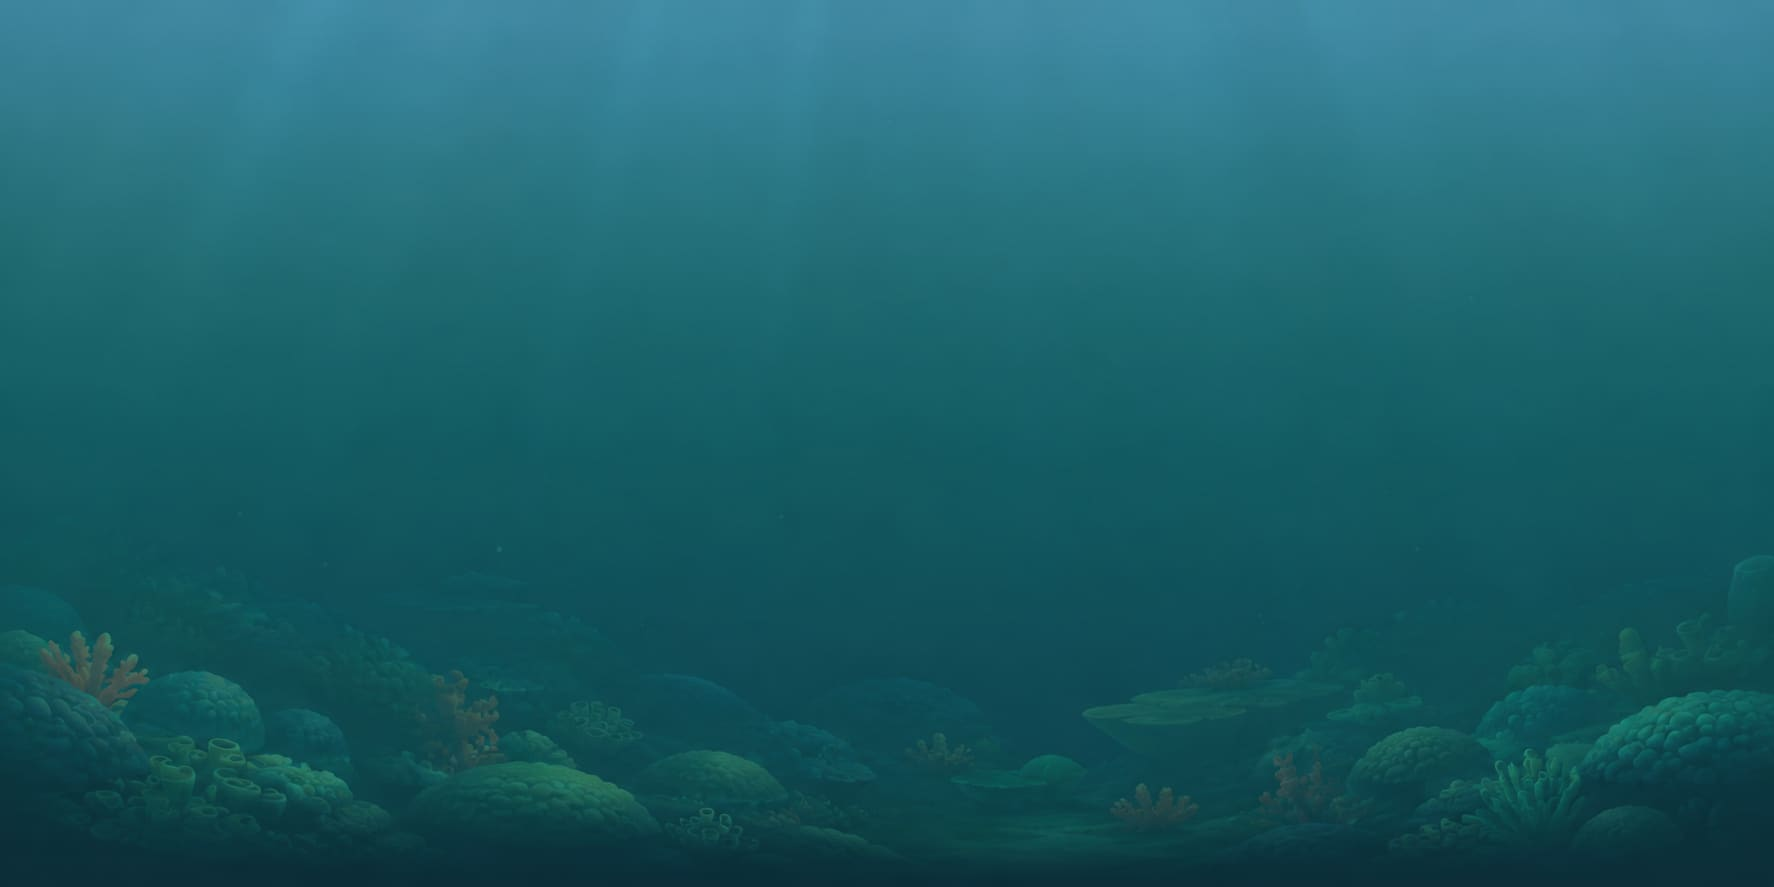
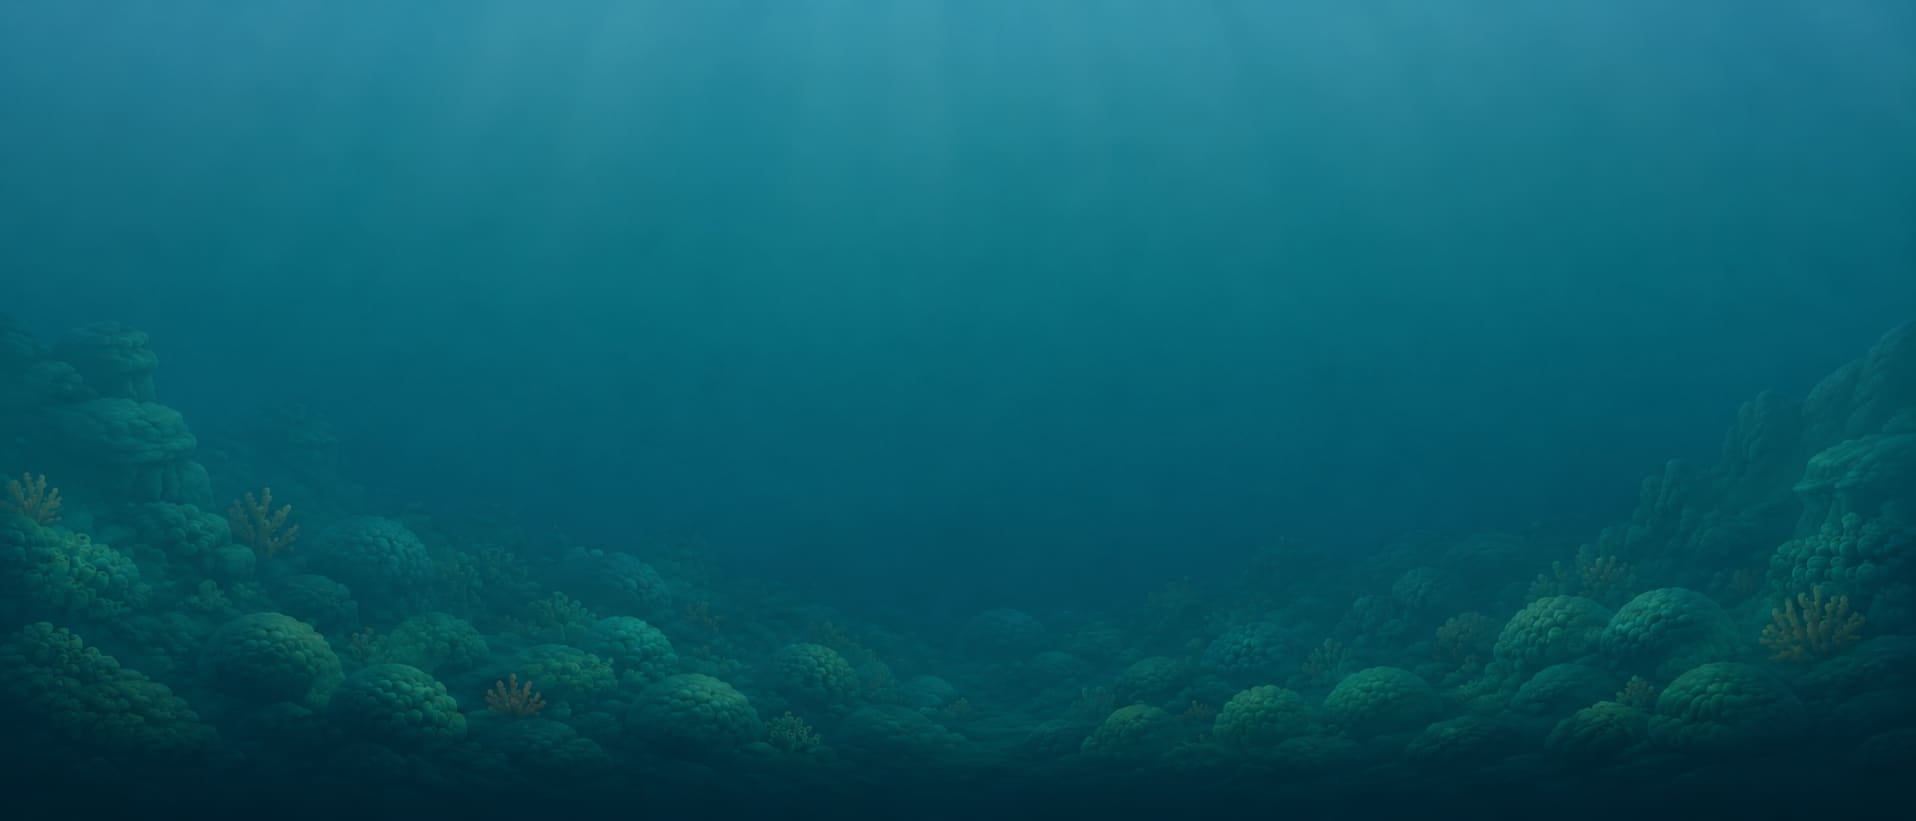
feat(game): backdrop spans the whole viewport; animated boundary markers on top
Realises the "one continuous scene" model: ONE static art image is painted across
the entire viewport (play field + >2:1/>1:2 border), and the procedural border now
draws only its ANIMATED markers over it — swaying kelp-walls (side edges), rippling
water surface + a small boat (top edge), seabed grass (bottom edge) — with its
opaque fills + static rocks/decor skipped so the art shows through. The art supplies
static rocks/corals; the game supplies all motion, which also shows where play ends.

- drawBackdropFullscreen: cover-fit across the viewport. Landscape = bottom-anchored
  (seabed on the floor); portrait = TOP-anchored (deep dark bottom cropped on shorter
  phones, lit top kept) — per design, easy to flip.
- Border draw fns take a `bd` flag: skip fills/static, keep animated kelp/boat/grass.
- New ultra-wide (1916×821, 21:9) + ultra-tall (821×1916, 9:21) art, re-encoded.

Verified at 16:9, ultra-wide (2.39:1) and tall (2.33:1): one cohesive scene, kelp-
walls/water-surface+boat/seabed-grass animate over the art, no console errors.

diff --git a/public/games/seal-hunt-v1/render/scenery.js b/public/games/seal-hunt-v1/render/scenery.js
@@ -48,12 +48,23 @@ function activeBackdrop(world) {
   return b && b.img ? b : null;
 }
 
-// Cover-fit an image into the field, anchored to the BOTTOM (seabed stays on the floor at any
-// aspect; horizontal overflow is cropped evenly — fine for a soft, focal-point-free scene).
-function drawCover(ctx, b, w, h) {
-  const s = Math.max(w / b.w, h / b.h);
+export function isBackdropActive(world) { return !!activeBackdrop(world); }
+
+// Paint the active backdrop across the WHOLE viewport (field + >2:1 border), so the static art
+// reads as one continuous scene; the animated boundary markers (kelp-walls / water surface + boat /
+// seabed grass) draw on top to show where play ends. Cover-fit; ANCHOR controls which side the crop
+// falls on: landscape art is BOTTOM-anchored (seabed on the floor, open water cropped from the top);
+// portrait/ultra-tall art is TOP-anchored — its very deep dark bottom is cropped on shorter phones
+// while the lit top stays (per design; flip `dy` here to experiment).
+export function drawBackdropFullscreen(ctx, view, world) {
+  const b = activeBackdrop(world);
+  if (!b) return false;
+  const W = view.dispW, H = view.dispH;
+  const s = Math.max(W / b.w, H / b.h);
   const dw = b.w * s, dh = b.h * s;
-  ctx.drawImage(b.img, (w - dw) / 2, h - dh, dw, dh);
+  const portrait = world.h > world.w;
+  ctx.drawImage(b.img, (W - dw) / 2, portrait ? 0 : H - dh, dw, dh);
+  return true;
 }
 
 function makeSeaGradient(ctx, world) {
@@ -124,11 +135,11 @@ export function initScenery(world, ctx) {
 }
 
 export function drawBackground(ctx, world, t, reducedMotion = false) {
-  // Base layer: the static backdrop image if one is loaded, else the procedural sea gradient.
+  // Base layer: when a backdrop is active it's already painted across the whole viewport (by
+  // drawBackdropFullscreen), so here we fill the procedural sea gradient only when there's none.
+  // Everything below (light shafts, tint, bubbles, swaying kelp/grass) draws on top either way.
   const bd = activeBackdrop(world);
-  if (bd) {
-    drawCover(ctx, bd, world.w, world.h);
-  } else {
+  if (!bd) {
     ctx.fillStyle = seaGrad || PALETTE.water.mid;
     ctx.fillRect(0, 0, world.w, world.h);
   }
@@ -219,12 +230,14 @@ export function drawBackground(ctx, world, t, reducedMotion = false) {
     }
   }
 
-  // Seabed rocks
-  ctx.fillStyle = PALETTE.rock;
-  for (const r of rocks) {
-    ctx.beginPath();
-    ctx.ellipse(r.x, world.h - 8, r.w, r.h, 0, 0, Math.PI * 2);
-    ctx.fill();
+  // Seabed rocks (static) — skipped when a backdrop image is active (the art provides the rocks).
+  if (!bd) {
+    ctx.fillStyle = PALETTE.rock;
+    for (const r of rocks) {
+      ctx.beginPath();
+      ctx.ellipse(r.x, world.h - 8, r.w, r.h, 0, 0, Math.PI * 2);
+      ctx.fill();
+    }
   }
 }
 
@@ -363,10 +376,10 @@ export function drawDeepBackdrop(ctx, view) {
 }
 
 // Border layers BEHIND the play field (seabed, sky + clouds + boats, side walls).
-export function drawBorderBack(ctx, view, world, t, reducedMotion = false) {
+export function drawBorderBack(ctx, view, world, t, reducedMotion = false, bd = false) {
   if (!B) return;
-  if (B.hasTopBottom) { drawSeabed(ctx, t, reducedMotion); drawSkyBack(ctx, t, reducedMotion); }
-  if (B.hasSides) drawSideWalls(ctx, t, reducedMotion);
+  if (B.hasTopBottom) { drawSeabed(ctx, t, reducedMotion, bd); drawSkyBack(ctx, t, reducedMotion, bd); }
+  if (B.hasSides) drawSideWalls(ctx, t, reducedMotion, bd);
 }
 
 // Border layers IN FRONT of the play field: the wavy water surface + the edge vignette.
@@ -376,15 +389,15 @@ export function drawBorderFront(ctx, view, world, t, reducedMotion = false) {
   drawEdgeVignette(ctx);
 }
 
-function drawSideWalls(ctx, t, reduced) {
+function drawSideWalls(ctx, t, reduced, bd = false) {
   const { dispH } = B;
-  for (const r of B.rocks) {
+  if (!bd) for (const r of B.rocks) { // static base rocks — the art provides them in backdrop mode
     ctx.fillStyle = r.c;
     ctx.beginPath(); ctx.ellipse(r.x, r.y, r.rw, r.rh, 0, 0, Math.PI * 2); ctx.fill();
     ctx.fillStyle = 'rgba(237,241,243,0.05)';
     ctx.beginPath(); ctx.ellipse(r.x - r.rw * 0.3, r.y - r.rh * 0.4, r.rw * 0.5, r.rh * 0.4, 0, 0, Math.PI * 2); ctx.fill();
   }
-  ctx.save(); ctx.lineCap = 'round';
+  ctx.save(); ctx.lineCap = 'round'; // animated kelp-wall — always (the boundary marker)
   for (const k of B.kelp) {
     const sway = reduced ? 0 : Math.sin(t * 0.8 + k.phase) * 10;
     ctx.lineWidth = k.lw; ctx.strokeStyle = k.c;
@@ -395,14 +408,16 @@ function drawSideWalls(ctx, t, reduced) {
   ctx.restore();
 }
 
-function drawSkyBack(ctx, t, reduced) {
+function drawSkyBack(ctx, t, reduced, bd = false) {
   const { dispW, ay0 } = B, S = B.sky;
-  ctx.fillStyle = S.grad; ctx.fillRect(0, 0, dispW, ay0);
-  for (const c of S.clouds) {
-    const x = reduced ? c.x : _mod(c.x + t * c.v + 80, dispW + 160) - 80;
-    drawCloud(ctx, x, c.y, c.s, c.a);
+  if (!bd) { // sky fill + clouds only without a backdrop; in backdrop mode the top stays water (art)
+    ctx.fillStyle = S.grad; ctx.fillRect(0, 0, dispW, ay0);
+    for (const c of S.clouds) {
+      const x = reduced ? c.x : _mod(c.x + t * c.v + 80, dispW + 160) - 80;
+      drawCloud(ctx, x, c.y, c.s, c.a);
+    }
   }
-  for (const bo of S.boats) {
+  for (const bo of S.boats) { // small boat(s) on the surface — always (a top-edge boundary marker)
     const x = reduced ? bo.x : _mod(bo.x + t * bo.v * bo.dir + 100, dispW + 200) - 100;
     const yWater = ay0 + (reduced ? 0 : Math.sin(t * 0.9 + bo.bob) * 2);
     drawBoat(ctx, x, yWater, bo.s, bo.dir, bo.hue);
@@ -445,8 +460,9 @@ function drawWaterline(ctx, y, w, t, reduced) {
   ctx.restore();
 }
 
-function drawSeabed(ctx, t, reduced) {
+function drawSeabed(ctx, t, reduced, bd = false) {
   const { dispW, ay1, dispH } = B, S = B.seabed;
+  if (!bd) { // opaque sand + static dunes/ripples/pebbles/driftwood/rocks — the art supplies these
   ctx.fillStyle = S.grad; ctx.fillRect(0, ay1, dispW, dispH - ay1);
   for (const d of S.dunes) {
     ctx.fillStyle = d.c;
@@ -463,7 +479,8 @@ function drawSeabed(ctx, t, reduced) {
     ctx.fillStyle = 'rgba(237,241,243,0.08)';
     ctx.beginPath(); ctx.ellipse(r.x - r.rw * 0.3, r.y - r.rh * 0.35, r.rw * 0.5, r.rh * 0.4, 0, 0, Math.PI * 2); ctx.fill();
   }
-  ctx.lineWidth = 2; ctx.lineCap = 'round';
+  } // end if (!bd) — static seabed
+  ctx.lineWidth = 2; ctx.lineCap = 'round'; // animated seabed grass — always (bottom-edge marker)
   for (const g of S.grass) {
     const step = g.width / Math.max(1, g.blades - 1);
     ctx.strokeStyle = g.c;
@@ -474,7 +491,7 @@ function drawSeabed(ctx, t, reduced) {
       ctx.quadraticCurveTo(x + sway * 0.3, g.baseY - g.gh * 0.6, x + sway * 0.7, g.baseY - g.gh); ctx.stroke();
     }
   }
-  ctx.fillStyle = S.haze; ctx.fillRect(0, ay1, dispW, S.hazeH);
+  if (!bd) { ctx.fillStyle = S.haze; ctx.fillRect(0, ay1, dispW, S.hazeH); }
 }
 
 function drawDriftwood(ctx, d) {

diff --git a/public/games/seal-hunt-v1/game.js b/public/games/seal-hunt-v1/game.js
@@ -2,7 +2,7 @@
 import { BAL, recomputeBalance, computeWorld } from './core/balance.js';
 import { ROUND_MS, stepSeal, spawnTick } from './core/sim.js';
 import { attachPointer, attachKeyboard } from './core/input.js';
-import { initScenery, drawBackground, initBorder, drawDeepBackdrop, drawBorderBack, drawBorderFront, initBackdrop } from './render/scenery.js';
+import { initScenery, drawBackground, initBorder, drawDeepBackdrop, drawBorderBack, drawBorderFront, initBackdrop, isBackdropActive, drawBackdropFullscreen } from './render/scenery.js';
 import { PREY, updatePrey, drawPrey } from './entities/prey.js';
 import { makeSeal } from './entities/seal.js';
 import { mountAfterPlay, startRound, relocalizeBoard } from './core/leaderboard.js';
@@ -388,13 +388,16 @@ function drawFrame(dt){
   const t = performance.now()/1000;
 
   const hasBorder = VIEW.ox > 0.5 || VIEW.oy > 0.5;
+  const bd = isBackdropActive(WORLD);
 
-  // Deep "edge of the cove" backdrop + the border layers BEHIND the field (seabed, sky +
-  // boats, side kelp walls). Replaces the flat floor fill; only visible on >2:1 screens.
+  // BEHIND the field. With a backdrop image: ONE image spans the whole viewport (field + border),
+  // then the border draws only its ANIMATED markers over it (kelp-walls / boat / seabed grass).
+  // Without: the deep gradient + full diegetic border (seabed, sky + boats, kelp walls), >2:1 only.
   CTX.save();
   CTX.setTransform(DPR, 0, 0, DPR, 0, 0);
-  drawDeepBackdrop(CTX, VIEW);
-  if (hasBorder) drawBorderBack(CTX, VIEW, WORLD, t, reduced);
+  if (bd) drawBackdropFullscreen(CTX, VIEW, WORLD);
+  else drawDeepBackdrop(CTX, VIEW);
+  if (hasBorder) drawBorderBack(CTX, VIEW, WORLD, t, reduced, bd);
   CTX.restore();
 
   drawBackground(CTX, WORLD, t, reduced);

diff --git a/public/games/seal-hunt-v1/assets/README.md b/public/games/seal-hunt-v1/assets/README.md
@@ -2,32 +2,33 @@
 
 ## Static backdrop (optional)
 
-The game can use a static image as the play-field background instead of the flat procedural sea
-gradient. The in-game **light shafts, depth tint, bubbles AND the animated swaying kelp/grass still
-draw on top**, so the scene stays alive. If these files are absent, the procedural scene renders
-unchanged.
+One static image is painted **across the WHOLE viewport** (the play field AND the >2:1 / >1:2
+border), so it reads as a single continuous scene. The game's **animated layer draws on top** and
+both adds life *and* marks where play ends: **swaying kelp-walls** at the side edges, a **rippling
+water surface + a small boat** at the top edge, and **seabed grass** at the bottom edge — plus soft
+light shafts, bubbles and the field's swaying kelp. The art supplies the *static* rocks/corals; the
+game supplies all motion. If these files are absent, the fully procedural scene renders unchanged.
 
 Expected files (the loader tries AVIF → WebP → JPEG, first that loads wins):
 
 ```
-assets/backdrop-landscape.{avif,webp,jpg}   used when the field is landscape/square (w ≥ h)
-assets/backdrop-portrait.{avif,webp,jpg}    used in portrait (falls back to landscape if absent)
+assets/backdrop-landscape.{avif,webp,jpg}   landscape/square screens — author ULTRA-WIDE (~21:9)
+assets/backdrop-portrait.{avif,webp,jpg}    portrait screens — author ULTRA-TALL (~9:21)
 ```
 
-- Covers the **play field only** (the 2:1-clamped centre), **cover-fit, anchored to the bottom** —
-  keep the seabed/corals along the lower edge and open, foggy water up top, so cropping on different
-  aspect ratios is harmless.
-- **Top edge ≈ `#3C7C97`, bottom edge ≈ `#0B2832`** (the CSS page background) so it blends into the
-  game gradient and the dark page; the placeholder generator already does this exactly.
-- **Design it to sit BEHIND the animated kelp**: corals / rocks / fog, *no big foreground kelp*
-  (the swaying kelp/grass is drawn on top by the game — bake-in kelp would double up).
-- **Match the water palette** in `core/theme.js` (teal surface `water.surface` → ink deep
-  `water.floor`, kelp greens) so the on-top light shafts, bubbles and kelp blend seamlessly.
+- **Author for the widest / tallest case** (ultra-wide ~21:9, ultra-tall ~9:21). One landscape
+  image serves every landscape screen; one portrait image serves every portrait screen. It's
+  **cover-fit**: landscape is **bottom-anchored** (seabed on the floor; open water cropped from the
+  top on a 16:9 monitor → ~12% off the sides), portrait is **TOP-anchored** (the deep dark bottom is
+  cropped on shorter phones; the lit top stays). Flip the anchor in `drawBackdropFullscreen` to taste.
+- **Put corals/rocks across the full bottom width**, including the far left/right where the kelp-walls
+  sit (ultra-wide) and a **deep, dark rocky bottom** (ultra-tall). No foreground kelp/seaweed and no
+  creatures/boat — the game draws those, animated, on top.
+- **Top edge ≈ `#3C7C97`, bottom edge ≈ `#0B2832`** (= the CSS page background) so it blends into the
+  game gradient and the dark page.
+- **Match the water palette** in `core/theme.js` (teal `water.surface` → `water.floor`, kelp greens).
 - A **foggy / blurred** look is ideal: it compresses tiny and shows no artifacts when scaled.
 - The image is decoded before first use → no half-loaded flash; the gradient shows until ready.
-- On **>2:1 / >1:2** screens the leftover **border stays procedural and ANIMATED** — swaying
-  kelp-walls on the sides, rippling sea surface + drifting boats on top, sand/rocks seabed at the
-  bottom. The backdrop image is the play field only; the border frames it as before.
 
 The committed files are **placeholders** (see `tools/make-placeholder-backdrop.mjs`). Replace them
 with real art at the same names.
